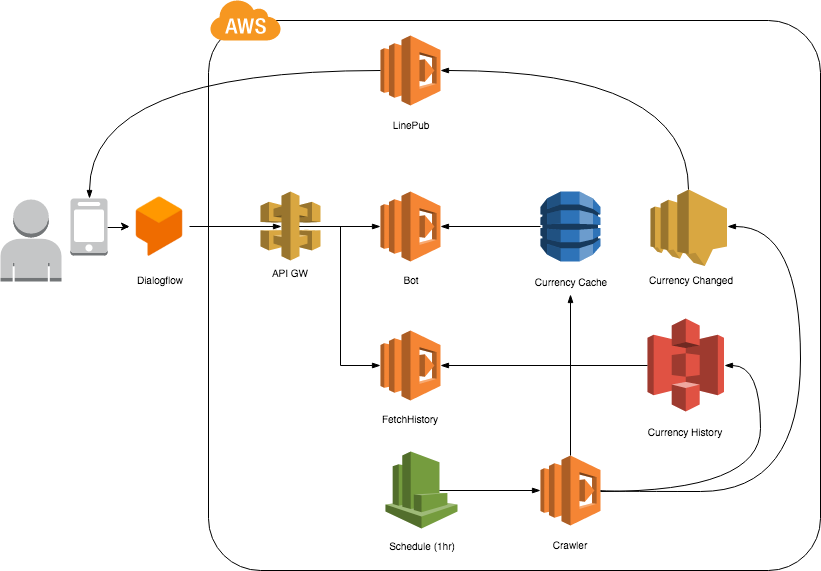
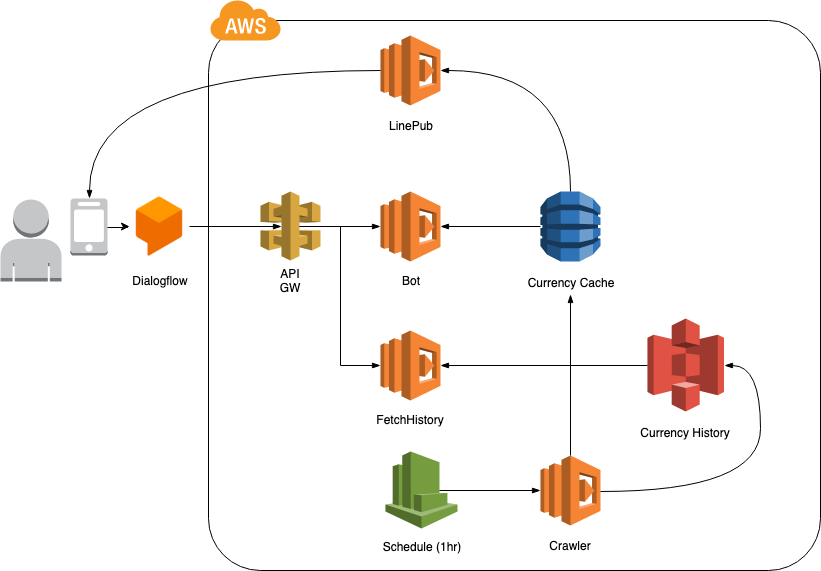
Refine publish event architecture

diff --git a/store/currency.js b/store/currency.js
@@ -12,7 +12,6 @@ const Currency = class {
    * @param {Object} options JSON configuration.
    * @param {Object} options.kv KV object.
    * @param {Object} options.storage Storage object.
-   * @param {Object} options.event Event object.
    * @param {String} options.currencyChangedTopic the topic arn
    *  which will publish event when currency changed.
    * @param {Object} options.client HttpClient object.
@@ -20,7 +19,6 @@ const Currency = class {
   constructor(options) {
     this.kv = options.kv;
     this.storage = options.storage;
-    this.event = options.event;
     this.currencyChangedTopic = options.currencyChangedTopic;
     this.client = options.client;
     this.url = 'http://rate.bot.com.tw/xrt/fltxt/0/day';
@@ -105,6 +103,51 @@ const Currency = class {
   }
 
   /**
+   * Parse Currency object from DynamoDB Stream record.
+   *
+   * DynamoDB Stream record:
+   * {
+   *  "bank": {
+   *    "S": "BOT"
+   *  },
+   *  "data": {
+   *    "M": {
+   *      "date": {
+   *        "N": "1553788800000"
+   *      },
+   *      "USD": {
+   *        "N": "31.115"
+   *      }
+   *    }
+   *  }
+   * }
+   *
+   * @param {Context} context context.
+   * @param {Object} record DynamoDB Stream record.
+   * @return {Object}
+   */
+  parseCurrencyFromDynamoDBStream(context, record) {
+    context.logger.log('debug', 'parse record', record);
+    if (!record.data || !record.data.M) {
+      return {};
+    }
+
+    let obj = record.data.M;
+    let currencyObj = {};
+    Object.keys(obj).forEach((x) => {
+      if (obj[x].N) {
+        if (x == 'date') {
+          currencyObj[x] = parseInt(obj[x].N, 10);
+        } else {
+          currencyObj[x] = parseFloat(obj[x].N);
+        }
+      }
+    });
+
+    return currencyObj;
+  }
+
+  /**
    * Crawling Currency.
    *
    * @param {Context} context context.
@@ -126,7 +169,6 @@ const Currency = class {
         let dateStr = moment(curRec.date).format('YYYYMMDD');
         await this.addHistory(context, 'BOT', dateStr, curRec);
         await this.putCurrency(context, 'BOT', curRec);
-        await this.event.publish(context, this.currencyChangedTopic, curRec);
         return {};
       }
     } else {
@@ -135,7 +177,6 @@ const Currency = class {
       let dateStr = moment(curRec.date).format('YYYYMMDD');
       await this.addHistory(context, 'BOT', dateStr, curRec);
       await this.putCurrency(context, 'BOT', curRec);
-      await this.event.publish(context, this.currencyChangedTopic, curRec);
       return {};
     }
 

diff --git a/test/currency.test.js b/test/currency.test.js
@@ -4,7 +4,6 @@ const logger = require('../base/logger');
 const Context = require('../base/context');
 const KV = require('../base/kv');
 const Storage = require('../base/storage');
-const Event = require('../base/event');
 const HttpClient = require('../base/httpclient');
 const Currency = require('../store/currency');
 const expect = require('chai').expect;
@@ -32,7 +31,6 @@ describe('Currency', function() {
 
   let kv;
   let storage;
-  let event;
   let client;
   let store;
   let context;
@@ -41,12 +39,10 @@ describe('Currency', function() {
     context = new Context({logger: logger});
     kv = new KV();
     storage = new Storage();
-    event = new Event();
     client = new HttpClient();
     store = new Currency({
       kv: kv,
       storage: storage,
-      event: event,
       client: client,
       currencyChangedTopic: 'testTopic',
     });
@@ -107,11 +103,6 @@ describe('Currency', function() {
         .expects('put')
         .once()
         .withArgs(context, 'currency', 'BOT', sinon.match.any);
-      sandbox
-        .mock(event)
-        .expects('publish')
-        .once()
-        .withArgs(context, 'testTopic', sinon.match.has('USD', 30.312));
 
       return store
         .crawlingCurrency(context, ['USD'])

diff --git a/api/linepub.js b/api/linepub.js
@@ -2,11 +2,13 @@
 
 const Middleware = require('./middleware');
 const Storage = require('../base/storage');
+const Currency = require('../store/currency');
 const Bot = require('../base/bot');
 const CrawlerBot = require('../store/crawlerbot');
 
 const storage = new Storage();
 const bot = new Bot();
+const currency = new Currency({});
 const store = new CrawlerBot({
   bot: bot,
   storage: storage,
@@ -18,12 +20,19 @@ exports.main = Middleware.handle((context) => {
 
   Promise.resolve()
     .then(() => {
-      let p = event.Records.map((x) => {
-        return x.Sns;
-      }).map((x) => {
-        let currency = JSON.parse(x.Message);
-        return store.broadcastCurrency(context, 'line', currency);
-      });
+      let p = event.Records.filter((x) => {
+        return x.dynamodb && x.dynamodb.NewImage;
+      })
+        .map((x) => {
+          let record = x.dynamodb.NewImage;
+          return currency.parseCurrencyFromDynamoDBStream(context, record);
+        })
+        .filter((x) => {
+          return Object.keys(x).length > 0;
+        })
+        .map((x) => {
+          return store.broadcastCurrency(context, 'line', x);
+        });
 
       return Promise.all(p);
     })

diff --git a/api/crawler.js b/api/crawler.js
@@ -3,18 +3,15 @@
 const Middleware = require('./middleware');
 const KV = require('../base/kv');
 const Storage = require('../base/storage');
-const Event = require('../base/event');
 const HttpClient = require('../base/httpclient');
 const Currency = require('../store/currency');
 
-const event = new Event();
 const httpclient = new HttpClient();
 const kv = new KV();
 const storage = new Storage();
 const store = new Currency({
   kv: kv,
   storage: storage,
-  event: event,
   currencyChangedTopic: process.env.CURRENCY_CHANGED_SNS_ARN,
   client: httpclient,
 });

diff --git a/store/crawlerbot.js b/store/crawlerbot.js
@@ -125,6 +125,7 @@ const CrawlerBot = class {
       func: 'broadcastCurrency',
     });
 
+    context.logger.log('debug', 'broadcase currency', currency);
     let msg = this.getCurrencyMsg(currency);
     let users = await this.getUsers(context, plat);
     await this.bot.publish(context, plat, users, msg);
